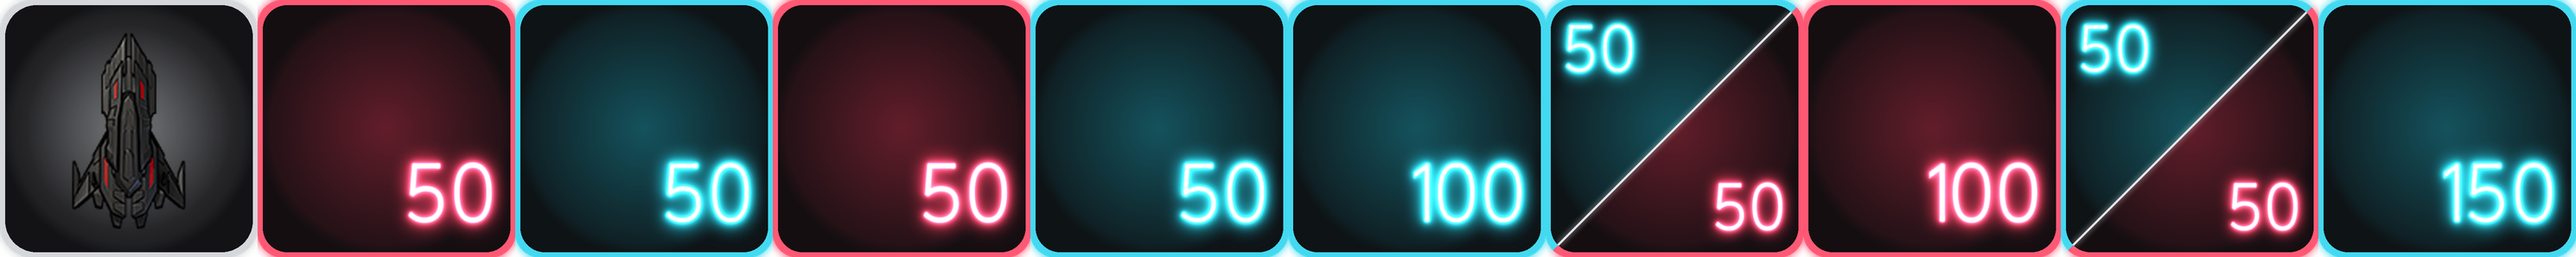
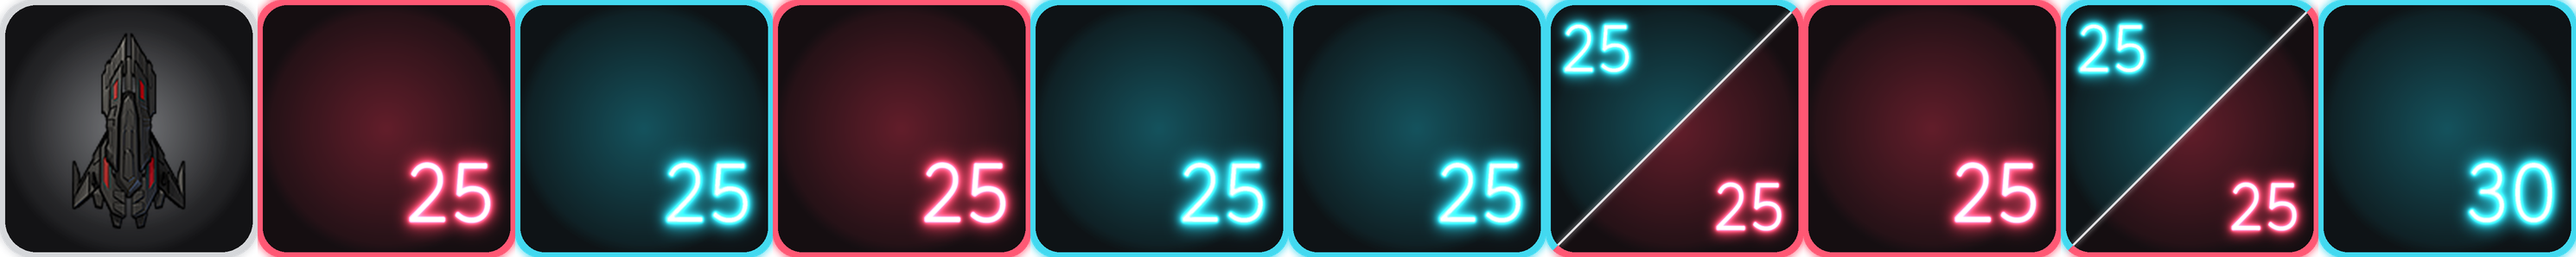
Ship prices lowered (floor 25, ceiling 2000), cards regenerated, existing saves migrated

diff --git a/core/src/com/spaceship/main/Main.java b/core/src/com/spaceship/main/Main.java
@@ -176,80 +176,80 @@ public class Main extends Game{
 			if(cursor != null && cursor.next())
 				if(String.valueOf(cursor.getInt(0)).equals("0")){
 					shipsDB.execSQL("INSERT INTO ships (id, bought, reds, blues) VALUES (0, 1, 0, 0)");
-					shipsDB.execSQL("INSERT INTO ships (id, bought, reds, blues) VALUES (1, 0, 50, 0)");
-					shipsDB.execSQL("INSERT INTO ships (id, bought, reds, blues) VALUES (2, 0, 0, 50)");
-					shipsDB.execSQL("INSERT INTO ships (id, bought, reds, blues) VALUES (3, 0, 50, 0)");
-					shipsDB.execSQL("INSERT INTO ships (id, bought, reds, blues) VALUES (4, 0, 0, 50)");
-					shipsDB.execSQL("INSERT INTO ships (id, bought, reds, blues) VALUES (5, 0, 0, 100)");
-					shipsDB.execSQL("INSERT INTO ships (id, bought, reds, blues) VALUES (6, 0, 50, 50)");
-					shipsDB.execSQL("INSERT INTO ships (id, bought, reds, blues) VALUES (7, 0, 100, 0)");
-					shipsDB.execSQL("INSERT INTO ships (id, bought, reds, blues) VALUES (8, 0, 50, 50)");
-					shipsDB.execSQL("INSERT INTO ships (id, bought, reds, blues) VALUES (9, 0, 0, 150)");
-					shipsDB.execSQL("INSERT INTO ships (id, bought, reds, blues) VALUES (10, 0, 150, 0)");
-					shipsDB.execSQL("INSERT INTO ships (id, bought, reds, blues) VALUES (11, 0, 200, 0)");
-					shipsDB.execSQL("INSERT INTO ships (id, bought, reds, blues) VALUES (12, 0, 100, 100)");
-					shipsDB.execSQL("INSERT INTO ships (id, bought, reds, blues) VALUES (13, 0, 100, 100)");
-					shipsDB.execSQL("INSERT INTO ships (id, bought, reds, blues) VALUES (14, 0, 0, 200)");
-					shipsDB.execSQL("INSERT INTO ships (id, bought, reds, blues) VALUES (15, 0, 0, 250)");
-					shipsDB.execSQL("INSERT INTO ships (id, bought, reds, blues) VALUES (16, 0, 250, 0)");
-					shipsDB.execSQL("INSERT INTO ships (id, bought, reds, blues) VALUES (17, 0, 0, 250)");
-					shipsDB.execSQL("INSERT INTO ships (id, bought, reds, blues) VALUES (18, 0, 250, 0)");
-					shipsDB.execSQL("INSERT INTO ships (id, bought, reds, blues) VALUES (19, 0, 0, 350)");
-					shipsDB.execSQL("INSERT INTO ships (id, bought, reds, blues) VALUES (20, 0, 350, 0)");
-					shipsDB.execSQL("INSERT INTO ships (id, bought, reds, blues) VALUES (21, 0, 250, 100)");
-					shipsDB.execSQL("INSERT INTO ships (id, bought, reds, blues) VALUES (22, 0, 200, 200)");
-					shipsDB.execSQL("INSERT INTO ships (id, bought, reds, blues) VALUES (23, 0, 400, 0)");
-					shipsDB.execSQL("INSERT INTO ships (id, bought, reds, blues) VALUES (24, 0, 0, 400)");
-					shipsDB.execSQL("INSERT INTO ships (id, bought, reds, blues) VALUES (25, 0, 150, 250)");
-					shipsDB.execSQL("INSERT INTO ships (id, bought, reds, blues) VALUES (26, 0, 0, 500)");
-					shipsDB.execSQL("INSERT INTO ships (id, bought, reds, blues) VALUES (27, 0, 500, 0)");
-					shipsDB.execSQL("INSERT INTO ships (id, bought, reds, blues) VALUES (28, 0, 500, 0)");
-					shipsDB.execSQL("INSERT INTO ships (id, bought, reds, blues) VALUES (29, 0, 0, 500)");
-					shipsDB.execSQL("INSERT INTO ships (id, bought, reds, blues) VALUES (30, 0, 300, 300)");
-					shipsDB.execSQL("INSERT INTO ships (id, bought, reds, blues) VALUES (31, 0, 300, 300)");
-					shipsDB.execSQL("INSERT INTO ships (id, bought, reds, blues) VALUES (32, 0, 300, 300)");
-					shipsDB.execSQL("INSERT INTO ships (id, bought, reds, blues) VALUES (33, 0, 300, 300)");
-					shipsDB.execSQL("INSERT INTO ships (id, bought, reds, blues) VALUES (34, 0, 500, 220)");
-					shipsDB.execSQL("INSERT INTO ships (id, bought, reds, blues) VALUES (35, 0, 0, 750)");
-					shipsDB.execSQL("INSERT INTO ships (id, bought, reds, blues) VALUES (36, 0, 750, 0)");
-					shipsDB.execSQL("INSERT INTO ships (id, bought, reds, blues) VALUES (37, 0, 0, 750)");
-					shipsDB.execSQL("INSERT INTO ships (id, bought, reds, blues) VALUES (38, 0, 750, 0)");
-					shipsDB.execSQL("INSERT INTO ships (id, bought, reds, blues) VALUES (39, 0, 400, 500)");
-					shipsDB.execSQL("INSERT INTO ships (id, bought, reds, blues) VALUES (40, 0, 500, 400)");
-					shipsDB.execSQL("INSERT INTO ships (id, bought, reds, blues) VALUES (41, 0, 400, 500)");
-					shipsDB.execSQL("INSERT INTO ships (id, bought, reds, blues) VALUES (42, 0, 550, 420)");
-					shipsDB.execSQL("INSERT INTO ships (id, bought, reds, blues) VALUES (43, 0, 0, 1000)");
-					shipsDB.execSQL("INSERT INTO ships (id, bought, reds, blues) VALUES (44, 0, 1000, 0)");
-					shipsDB.execSQL("INSERT INTO ships (id, bought, reds, blues) VALUES (45, 0, 0, 1000)");
-					shipsDB.execSQL("INSERT INTO ships (id, bought, reds, blues) VALUES (46, 0, 1000, 0)");
-					shipsDB.execSQL("INSERT INTO ships (id, bought, reds, blues) VALUES (47, 0, 770, 300)");
-					shipsDB.execSQL("INSERT INTO ships (id, bought, reds, blues) VALUES (48, 0, 750, 350)");
-					shipsDB.execSQL("INSERT INTO ships (id, bought, reds, blues) VALUES (49, 0, 800, 400)");
-					shipsDB.execSQL("INSERT INTO ships (id, bought, reds, blues) VALUES (50, 0, 0, 1250)");
-					shipsDB.execSQL("INSERT INTO ships (id, bought, reds, blues) VALUES (51, 0, 1250, 0)");
-					shipsDB.execSQL("INSERT INTO ships (id, bought, reds, blues) VALUES (52, 0, 620, 870)");
-					shipsDB.execSQL("INSERT INTO ships (id, bought, reds, blues) VALUES (53, 0, 1500, 0)");
-					shipsDB.execSQL("INSERT INTO ships (id, bought, reds, blues) VALUES (54, 0, 0, 1500)");
-					shipsDB.execSQL("INSERT INTO ships (id, bought, reds, blues) VALUES (55, 0, 1750, 0)");
-					shipsDB.execSQL("INSERT INTO ships (id, bought, reds, blues) VALUES (56, 0, 0, 1750)");
-					shipsDB.execSQL("INSERT INTO ships (id, bought, reds, blues) VALUES (57, 0, 900, 900)");
-					shipsDB.execSQL("INSERT INTO ships (id, bought, reds, blues) VALUES (58, 0, 900, 900)");
-					shipsDB.execSQL("INSERT INTO ships (id, bought, reds, blues) VALUES (59, 0, 800, 1200)");
-					shipsDB.execSQL("INSERT INTO ships (id, bought, reds, blues) VALUES (60, 0, 1200, 800)");
-					shipsDB.execSQL("INSERT INTO ships (id, bought, reds, blues) VALUES (61, 0, 0, 2000)");
-					shipsDB.execSQL("INSERT INTO ships (id, bought, reds, blues) VALUES (62, 0, 2000, 0)");
-					shipsDB.execSQL("INSERT INTO ships (id, bought, reds, blues) VALUES (63, 0, 0, 2500)");
-					shipsDB.execSQL("INSERT INTO ships (id, bought, reds, blues) VALUES (64, 0, 2500, 0)");
-					shipsDB.execSQL("INSERT INTO ships (id, bought, reds, blues) VALUES (65, 0, 1500, 1500)");
-					shipsDB.execSQL("INSERT INTO ships (id, bought, reds, blues) VALUES (66, 0, 1500, 1500)");
-					shipsDB.execSQL("INSERT INTO ships (id, bought, reds, blues) VALUES (67, 0, 1700, 1800)");
-					shipsDB.execSQL("INSERT INTO ships (id, bought, reds, blues) VALUES (68, 0, 2500, 2000)");
-					shipsDB.execSQL("INSERT INTO ships (id, bought, reds, blues) VALUES (69, 0, 2000, 2500)");
-					shipsDB.execSQL("INSERT INTO ships (id, bought, reds, blues) VALUES (70, 0, 0, 5000)");
-					shipsDB.execSQL("INSERT INTO ships (id, bought, reds, blues) VALUES (71, 0, 5000, 0)");
-					shipsDB.execSQL("INSERT INTO ships (id, bought, reds, blues) VALUES (72, 0, 4000, 3000)");
-					shipsDB.execSQL("INSERT INTO ships (id, bought, reds, blues) VALUES (73, 0, 5000, 5000)");
-					shipsDB.execSQL("INSERT INTO ships (id, bought, reds, blues) VALUES (74, 0, 5000, 5000)");
+					shipsDB.execSQL("INSERT INTO ships (id, bought, reds, blues) VALUES (1, 0, 25, 0)");
+					shipsDB.execSQL("INSERT INTO ships (id, bought, reds, blues) VALUES (2, 0, 0, 25)");
+					shipsDB.execSQL("INSERT INTO ships (id, bought, reds, blues) VALUES (3, 0, 25, 0)");
+					shipsDB.execSQL("INSERT INTO ships (id, bought, reds, blues) VALUES (4, 0, 0, 25)");
+					shipsDB.execSQL("INSERT INTO ships (id, bought, reds, blues) VALUES (5, 0, 0, 25)");
+					shipsDB.execSQL("INSERT INTO ships (id, bought, reds, blues) VALUES (6, 0, 25, 25)");
+					shipsDB.execSQL("INSERT INTO ships (id, bought, reds, blues) VALUES (7, 0, 25, 0)");
+					shipsDB.execSQL("INSERT INTO ships (id, bought, reds, blues) VALUES (8, 0, 25, 25)");
+					shipsDB.execSQL("INSERT INTO ships (id, bought, reds, blues) VALUES (9, 0, 0, 30)");
+					shipsDB.execSQL("INSERT INTO ships (id, bought, reds, blues) VALUES (10, 0, 30, 0)");
+					shipsDB.execSQL("INSERT INTO ships (id, bought, reds, blues) VALUES (11, 0, 40, 0)");
+					shipsDB.execSQL("INSERT INTO ships (id, bought, reds, blues) VALUES (12, 0, 25, 25)");
+					shipsDB.execSQL("INSERT INTO ships (id, bought, reds, blues) VALUES (13, 0, 25, 25)");
+					shipsDB.execSQL("INSERT INTO ships (id, bought, reds, blues) VALUES (14, 0, 0, 40)");
+					shipsDB.execSQL("INSERT INTO ships (id, bought, reds, blues) VALUES (15, 0, 0, 50)");
+					shipsDB.execSQL("INSERT INTO ships (id, bought, reds, blues) VALUES (16, 0, 50, 0)");
+					shipsDB.execSQL("INSERT INTO ships (id, bought, reds, blues) VALUES (17, 0, 0, 50)");
+					shipsDB.execSQL("INSERT INTO ships (id, bought, reds, blues) VALUES (18, 0, 50, 0)");
+					shipsDB.execSQL("INSERT INTO ships (id, bought, reds, blues) VALUES (19, 0, 0, 70)");
+					shipsDB.execSQL("INSERT INTO ships (id, bought, reds, blues) VALUES (20, 0, 70, 0)");
+					shipsDB.execSQL("INSERT INTO ships (id, bought, reds, blues) VALUES (21, 0, 50, 25)");
+					shipsDB.execSQL("INSERT INTO ships (id, bought, reds, blues) VALUES (22, 0, 40, 40)");
+					shipsDB.execSQL("INSERT INTO ships (id, bought, reds, blues) VALUES (23, 0, 80, 0)");
+					shipsDB.execSQL("INSERT INTO ships (id, bought, reds, blues) VALUES (24, 0, 0, 80)");
+					shipsDB.execSQL("INSERT INTO ships (id, bought, reds, blues) VALUES (25, 0, 30, 50)");
+					shipsDB.execSQL("INSERT INTO ships (id, bought, reds, blues) VALUES (26, 0, 0, 100)");
+					shipsDB.execSQL("INSERT INTO ships (id, bought, reds, blues) VALUES (27, 0, 100, 0)");
+					shipsDB.execSQL("INSERT INTO ships (id, bought, reds, blues) VALUES (28, 0, 100, 0)");
+					shipsDB.execSQL("INSERT INTO ships (id, bought, reds, blues) VALUES (29, 0, 0, 100)");
+					shipsDB.execSQL("INSERT INTO ships (id, bought, reds, blues) VALUES (30, 0, 60, 60)");
+					shipsDB.execSQL("INSERT INTO ships (id, bought, reds, blues) VALUES (31, 0, 60, 60)");
+					shipsDB.execSQL("INSERT INTO ships (id, bought, reds, blues) VALUES (32, 0, 60, 60)");
+					shipsDB.execSQL("INSERT INTO ships (id, bought, reds, blues) VALUES (33, 0, 60, 60)");
+					shipsDB.execSQL("INSERT INTO ships (id, bought, reds, blues) VALUES (34, 0, 100, 40)");
+					shipsDB.execSQL("INSERT INTO ships (id, bought, reds, blues) VALUES (35, 0, 0, 150)");
+					shipsDB.execSQL("INSERT INTO ships (id, bought, reds, blues) VALUES (36, 0, 150, 0)");
+					shipsDB.execSQL("INSERT INTO ships (id, bought, reds, blues) VALUES (37, 0, 0, 150)");
+					shipsDB.execSQL("INSERT INTO ships (id, bought, reds, blues) VALUES (38, 0, 150, 0)");
+					shipsDB.execSQL("INSERT INTO ships (id, bought, reds, blues) VALUES (39, 0, 80, 100)");
+					shipsDB.execSQL("INSERT INTO ships (id, bought, reds, blues) VALUES (40, 0, 100, 80)");
+					shipsDB.execSQL("INSERT INTO ships (id, bought, reds, blues) VALUES (41, 0, 80, 100)");
+					shipsDB.execSQL("INSERT INTO ships (id, bought, reds, blues) VALUES (42, 0, 110, 80)");
+					shipsDB.execSQL("INSERT INTO ships (id, bought, reds, blues) VALUES (43, 0, 0, 250)");
+					shipsDB.execSQL("INSERT INTO ships (id, bought, reds, blues) VALUES (44, 0, 250, 0)");
+					shipsDB.execSQL("INSERT INTO ships (id, bought, reds, blues) VALUES (45, 0, 0, 250)");
+					shipsDB.execSQL("INSERT INTO ships (id, bought, reds, blues) VALUES (46, 0, 250, 0)");
+					shipsDB.execSQL("INSERT INTO ships (id, bought, reds, blues) VALUES (47, 0, 160, 60)");
+					shipsDB.execSQL("INSERT INTO ships (id, bought, reds, blues) VALUES (48, 0, 150, 70)");
+					shipsDB.execSQL("INSERT INTO ships (id, bought, reds, blues) VALUES (49, 0, 170, 80)");
+					shipsDB.execSQL("INSERT INTO ships (id, bought, reds, blues) VALUES (50, 0, 0, 350)");
+					shipsDB.execSQL("INSERT INTO ships (id, bought, reds, blues) VALUES (51, 0, 350, 0)");
+					shipsDB.execSQL("INSERT INTO ships (id, bought, reds, blues) VALUES (52, 0, 120, 200)");
+					shipsDB.execSQL("INSERT INTO ships (id, bought, reds, blues) VALUES (53, 0, 450, 0)");
+					shipsDB.execSQL("INSERT INTO ships (id, bought, reds, blues) VALUES (54, 0, 0, 450)");
+					shipsDB.execSQL("INSERT INTO ships (id, bought, reds, blues) VALUES (55, 0, 550, 0)");
+					shipsDB.execSQL("INSERT INTO ships (id, bought, reds, blues) VALUES (56, 0, 0, 550)");
+					shipsDB.execSQL("INSERT INTO ships (id, bought, reds, blues) VALUES (57, 0, 220, 220)");
+					shipsDB.execSQL("INSERT INTO ships (id, bought, reds, blues) VALUES (58, 0, 220, 220)");
+					shipsDB.execSQL("INSERT INTO ships (id, bought, reds, blues) VALUES (59, 0, 170, 350)");
+					shipsDB.execSQL("INSERT INTO ships (id, bought, reds, blues) VALUES (60, 0, 350, 170)");
+					shipsDB.execSQL("INSERT INTO ships (id, bought, reds, blues) VALUES (61, 0, 0, 650)");
+					shipsDB.execSQL("INSERT INTO ships (id, bought, reds, blues) VALUES (62, 0, 650, 0)");
+					shipsDB.execSQL("INSERT INTO ships (id, bought, reds, blues) VALUES (63, 0, 0, 900)");
+					shipsDB.execSQL("INSERT INTO ships (id, bought, reds, blues) VALUES (64, 0, 900, 0)");
+					shipsDB.execSQL("INSERT INTO ships (id, bought, reds, blues) VALUES (65, 0, 450, 450)");
+					shipsDB.execSQL("INSERT INTO ships (id, bought, reds, blues) VALUES (66, 0, 450, 450)");
+					shipsDB.execSQL("INSERT INTO ships (id, bought, reds, blues) VALUES (67, 0, 550, 600)");
+					shipsDB.execSQL("INSERT INTO ships (id, bought, reds, blues) VALUES (68, 0, 900, 650)");
+					shipsDB.execSQL("INSERT INTO ships (id, bought, reds, blues) VALUES (69, 0, 650, 900)");
+					shipsDB.execSQL("INSERT INTO ships (id, bought, reds, blues) VALUES (70, 0, 0, 2000)");
+					shipsDB.execSQL("INSERT INTO ships (id, bought, reds, blues) VALUES (71, 0, 2000, 0)");
+					shipsDB.execSQL("INSERT INTO ships (id, bought, reds, blues) VALUES (72, 0, 1500, 1100)");
+					shipsDB.execSQL("INSERT INTO ships (id, bought, reds, blues) VALUES (73, 0, 2000, 2000)");
+					shipsDB.execSQL("INSERT INTO ships (id, bought, reds, blues) VALUES (74, 0, 2000, 2000)");
 				}		
 			cursor.close();
 		} catch (SQLiteGdxException e) {
@@ -343,6 +343,15 @@ public class Main extends Game{
 			// TODO Auto-generated catch block
 			e.printStackTrace();
 		}
+		// ship prices were lowered: bring existing saves to the current price list (safe to repeat, bought flags are untouched)
+		try {
+			int[][] shipPrices = {{1,25,0},{2,0,25},{3,25,0},{4,0,25},{5,0,25},{6,25,25},{7,25,0},{8,25,25},{9,0,30},{10,30,0},{11,40,0},{12,25,25},{13,25,25},{14,0,40},{15,0,50},{16,50,0},{17,0,50},{18,50,0},{19,0,70},{20,70,0},{21,50,25},{22,40,40},{23,80,0},{24,0,80},{25,30,50},{26,0,100},{27,100,0},{28,100,0},{29,0,100},{30,60,60},{31,60,60},{32,60,60},{33,60,60},{34,100,40},{35,0,150},{36,150,0},{37,0,150},{38,150,0},{39,80,100},{40,100,80},{41,80,100},{42,110,80},{43,0,250},{44,250,0},{45,0,250},{46,250,0},{47,160,60},{48,150,70},{49,170,80},{50,0,350},{51,350,0},{52,120,200},{53,450,0},{54,0,450},{55,550,0},{56,0,550},{57,220,220},{58,220,220},{59,170,350},{60,350,170},{61,0,650},{62,650,0},{63,0,900},{64,900,0},{65,450,450},{66,450,450},{67,550,600},{68,900,650},{69,650,900},{70,0,2000},{71,2000,0},{72,1500,1100},{73,2000,2000},{74,2000,2000}};
+			for (int[] sp : shipPrices)
+				shipsDB.execSQL("UPDATE ships SET reds=" + sp[1] + ", blues=" + sp[2] + " WHERE id=" + sp[0] + ";");
+		} catch (SQLiteGdxException e) {
+			e.printStackTrace();
+		}
+
 		// galaxy prices were lowered: bring existing saves to the current price list (safe to repeat, bought flags are untouched)
 		try {
 			int[][] galaxyPrices = {{1, 50, 50}, {2, 100, 100}, {3, 150, 150}, {4, 150, 150}, {5, 250, 200}, {6, 200, 250}, {7, 400, 300}, {8, 300, 400}, {9, 500, 500}};
